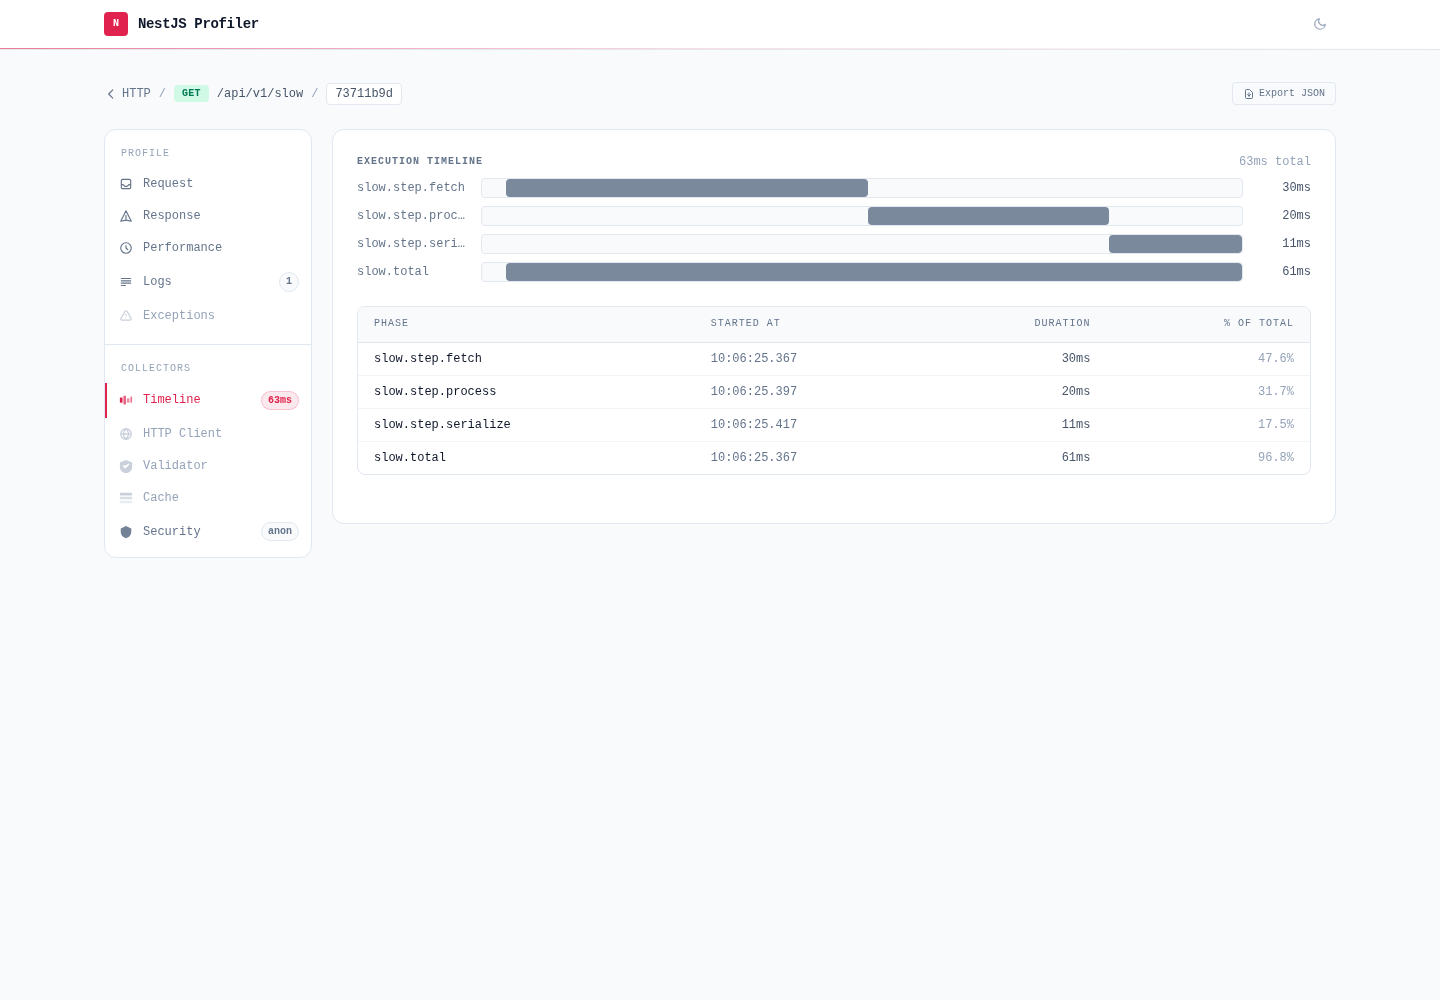
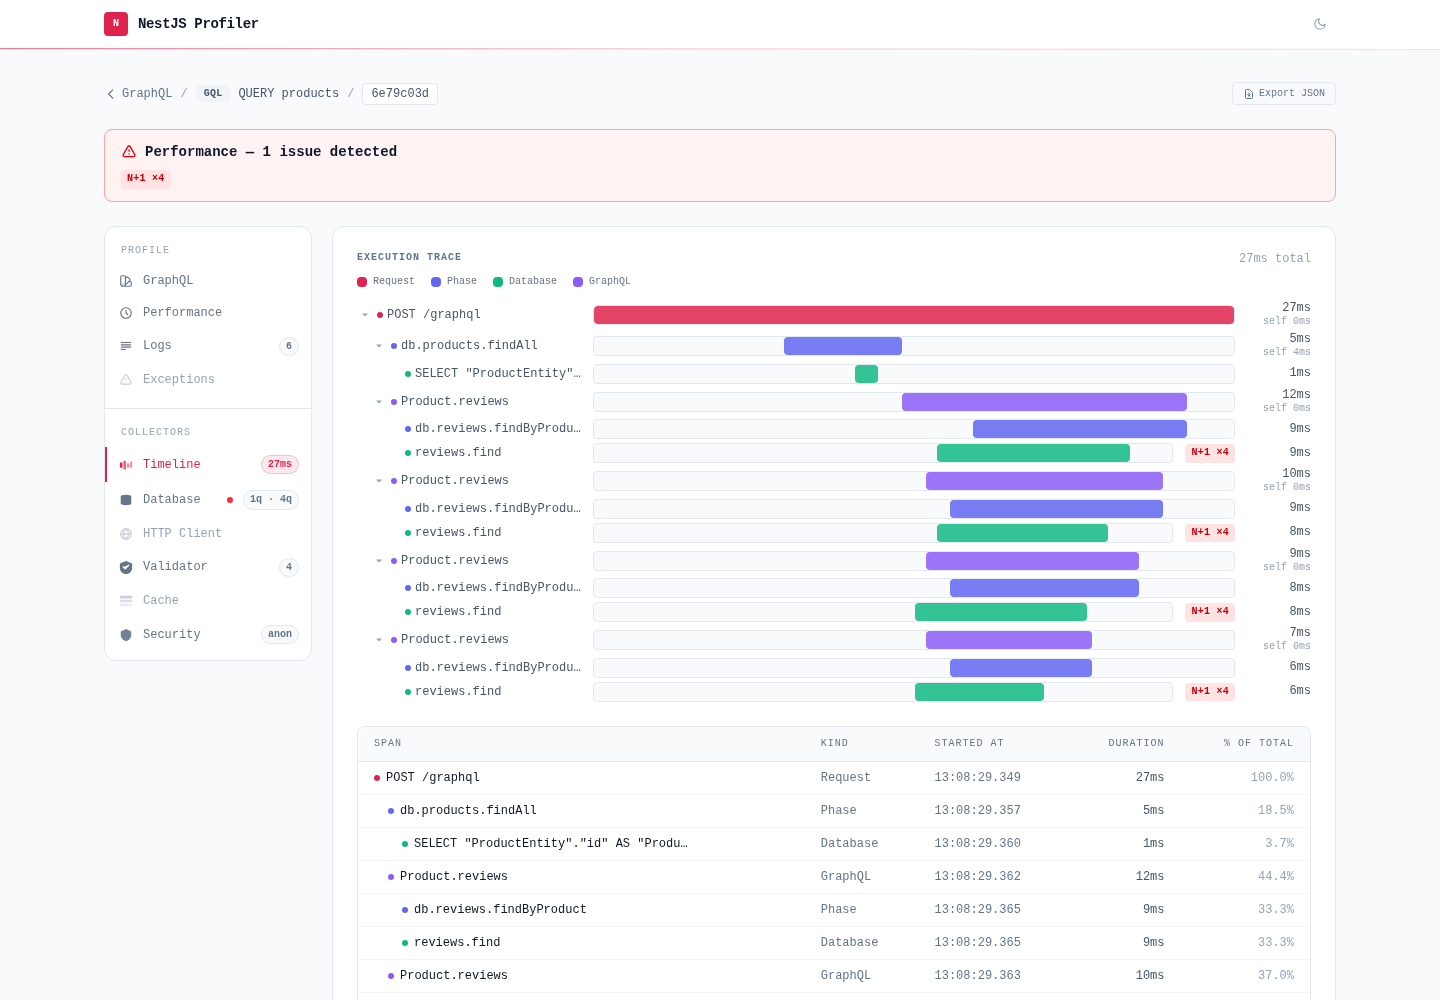
docs: document the trace waterfall, GraphQL field tracing and the lifecycle band
- rewrite the Timeline section as the unified nested trace waterfall (self-time, tags, deep-links)
- explain containers versus leaves, and why the `% of total` column does not sum to 100%
- document the sub-millisecond clock and the unit-following duration format
- refresh the Timeline screenshot as a GraphQL N+1 waterfall + a DataLoader-batched counterpart
- teach the screenshots script to shoot both traces (N+1 and DataLoader-batched)
- describe the flat Request Lifecycle band and the lifecycleSpans option
- add createProfilerFieldMiddleware + FieldTracingOptions to the GraphQL guide and API reference
- note the field middleware must be registered conditionally for zero cost when the profiler is off
- update the setup/harden/collector skills for GraphQL field tracing and the lifecycleSpans option
- add TraceSpan and LifecyclePhase to the core API reference

diff --git a/scripts/generate-profiler-screenshots.ts b/scripts/generate-profiler-screenshots.ts
@@ -169,7 +169,19 @@ const TARGETS: Target[] = [
       httpGet(api('/articles')),
     ],
   },
-  { file: 'timeline.png', tab: 'timeline', preds: [httpGet(api('/slow'))] },
+  {
+    // The `{ products { reviews } }` query is the richest trace: an SQL root resolver, a
+    // GraphQL field span per product and its MongoDB reviews query nested underneath — an
+    // N+1 the waterfall surfaces with per-field `N+1` tags. `timeline-dataloader.png` (its
+    // own FEATURE_DATALOADER pass below) shows the same query batched for contrast.
+    file: 'timeline.png',
+    tab: 'timeline',
+    preds: [
+      (p) => typeOf(p) === 'graphql' && gqlOpOf(p) === 'query' && hasTag(p, 'n-plus-one'),
+      (p) => typeOf(p) === 'graphql' && hasTag(p, 'n-plus-one'),
+      httpGet(api('/slow')),
+    ],
+  },
   {
     file: 'database.png',
     tab: 'database',
@@ -570,8 +582,50 @@ async function main(): Promise<void> {
       }
     }
 
+    // 10. DataLoader batching — the same `{ products { reviews } }` query as timeline.png,
+    //     but with FEATURE_DATALOADER on so the per-product reviews queries collapse into a
+    //     single batched load. Boot with the flag on, run the query, wait for its graphql
+    //     profile and shoot the Timeline tab as `timeline-dataloader.png` — the optimized
+    //     counterpart of the N+1 waterfall, with no N+1 tag and one reviews query.
+    if (!skip('SKIP_APP') && wanted('timeline-dataloader.png')) {
+      console.log('  • timeline-dataloader.png (FEATURE_DATALOADER pass)');
+      stopApp(app);
+      app = undefined;
+      const dlDir = mkdtempSync(join(tmpdir(), 'profiler-dataloader-'));
+      try {
+        app = await bootApp(logFile, dlDir, {
+          SQL_ORM: process.env.SQL_ORM ?? 'typeorm',
+          FEATURE_MONGOOSE: 'true',
+          FEATURE_GRAPHQL: 'true',
+          FEATURE_DATALOADER: 'true',
+          FEATURE_PINO_LOGGER: 'false',
+        });
+        await fetch(`${API_URL}/graphql`, {
+          method: 'POST',
+          headers: { 'content-type': 'application/json' },
+          body: JSON.stringify({
+            query:
+              'query Products { products { id name price reviews { id author rating createdAt } } }',
+          }),
+        });
+        const batched = await waitForProfileIn(
+          dlDir,
+          (p) => typeOf(p) === 'graphql' && gqlOpOf(p) === 'query',
+        );
+        capture('timeline-dataloader.png', `${PROFILER_URL}/${batched.token}?tab=timeline`);
+      } catch (error) {
+        console.warn(
+          `  ⚠ SKIPPED DataLoader shot (${error instanceof Error ? error.message : String(error)})`,
+        );
+      } finally {
+        stopApp(app);
+        app = undefined;
+        rmSync(dlDir, { recursive: true, force: true });
+      }
+    }
+
     console.log(
-      `▶ Done. ${resolved}/${TARGETS.length} detail targets + list/section/config + MikroORM/RabbitMQ passes → ${OUT_DIR}`,
+      `▶ Done. ${resolved}/${TARGETS.length} detail targets + list/section/config + MikroORM/RabbitMQ/DataLoader passes → ${OUT_DIR}`,
     );
   } finally {
     if (app?.exitCode === null) {

diff --git a/packages/nest-profiler-graphql/README.md b/packages/nest-profiler-graphql/README.md
@@ -130,6 +130,40 @@ Each profiled GraphQL request shows a **GQL** badge in `/_profiler` and records:
 
 Registering this module installs the `graphql` entrypoint type: GraphQL operations get their own **GraphQL** view on `/_profiler`, with a filter bar including an **Operation** filter (query / mutation / subscription).
 
+## Field-level tracing (resolveField)
+
+To time each `@ResolveField` and see the DB/HTTP calls it triggers nested under it in the profiler's **Timeline** waterfall, add the field middleware to your schema. It is **code-first only** (`buildSchemaOptions.fieldMiddleware`), and wired with no dependency injection:
+
+```ts
+import { createProfilerFieldMiddleware } from '@eleven-labs/nest-profiler-graphql';
+
+GraphQLModule.forRoot<ApolloDriverConfig>({
+  driver: ApolloDriver,
+  autoSchemaFile: true,
+  context: ({ req }) => ({ req }),
+  buildSchemaOptions: { fieldMiddleware: [createProfilerFieldMiddleware()] },
+});
+```
+
+Each traced field opens a nested CLS scope, so a query issued while it resolves is stamped as its child — an N+1 then reads as one field with its repeated child queries. It is a passthrough when the profiler is off. By default only fields returning a composite type (object/interface/union) or resolved on a root operation type are traced (that is where fan-out lives); widen or narrow it:
+
+```ts
+createProfilerFieldMiddleware(undefined, {
+  traceFields: 'all', // 'object' (default) | 'all' | (info) => boolean
+  minFieldMs: 1, // drop field spans shorter than this (ms)
+});
+```
+
+> **Running nothing when the profiler is off.** Once it sits in `buildSchemaOptions.fieldMiddleware`, graphql-js invokes the middleware for every resolved field, so the profiler-off passthrough is still one function call per field. To execute nothing at all on the GraphQL side when the profiler is disabled, register it only when your profiler-enabled flag is on:
+>
+> ```ts
+> buildSchemaOptions: {
+>   fieldMiddleware: profilerEnabled ? [createProfilerFieldMiddleware()] : [],
+> },
+> ```
+>
+> `buildSchemaOptions` is read while the schema is built — before a `.env` file is necessarily loaded — so when the flag comes from one, resolve it inside `GraphQLModule.forRootAsync` (injecting `ConfigService`) rather than reading `process.env` synchronously here.
+
 GraphQL-level errors (schema validation failures, resolver errors) appear in the **Exceptions** tab with an amber `GraphQLError` badge, distinct from NestJS runtime exceptions. Since GraphQL names every error `GraphQLError`, its `extensions.code` is shown alongside — that code is what the **Exception** filter lists and what decides whether the operation counts as an error.
 
 ![Exceptions tab showing an amber GraphQLError badge with its BAD_REQUEST code, validation message and location](https://raw.githubusercontent.com/eleven-labs/nest-profiler/main/docs/public/screenshots/profiler/graphql-error.png)

diff --git a/skills/harden-for-production/SKILL.md b/skills/harden-for-production/SKILL.md
@@ -23,7 +23,7 @@ Apply each, driven from `ConfigService`/env where the app already does so:
    - **`authorize` predicate** — `(ctx) => boolean | Promise<boolean>` over `ctx.request` / `ctx.response`. For HTTP Basic, set `ctx.response.setHeader('WWW-Authenticate', 'Basic realm="Profiler"')` before returning `false` so the browser prompts; the browser then re-sends the credential on every link.
    - **Bearer / `?token=`** — check the header or query in `authorize`, and add `security.linkQuery` to thread `?token=` across UI links (a bare Bearer header can't ride a browser link click). Compare secrets with `timingSafeEqual`.
    - Several strategies ⇒ **all must pass**. Never commit the credential — read it from the deploy environment via your own `security` code (the profiler defines no auth env var).
-2. **Keep gating explicit.** Confirm the enable predicate is off-by-default (`enabled('PROFILER_ENABLED')`, unset ⇒ off) so a forgotten variable means off. Prefer Approach A (`ConditionalModule`) so the profiler module never even loads when off.
+2. **Keep gating explicit.** Confirm the enable predicate is off-by-default (`enabled('PROFILER_ENABLED')`, unset ⇒ off) so a forgotten variable means off. Prefer Approach A (`ConditionalModule`) so the profiler module never even loads when off. If the app wires the GraphQL field middleware (`createProfilerFieldMiddleware`), gate it too — it lives in the GraphQL schema, not the profiler module, so `ConditionalModule` can't strip it: register it as `fieldMiddleware: isProfilerEnabled ? [createProfilerFieldMiddleware()] : []` so graphql-js runs nothing per field when off.
 3. **Don't capture bodies.** `collectBody: false` (the default). If some bodies are needed, cap with a small `maxBodySize` and rely on masking.
 4. **Mask sensitive data.** Add `maskHeaders` / `maskCookies` on the core, and the per-collector masks: `maskKeys` (config), `maskUserFields` (auth), `maskHeaders` (http, rabbitmq). Verify auth/JWT fields and DB credentials are covered.
 5. **Sample and cap retention.** Lower `sampleRate` (e.g. `0.05`) to profile a fraction of traffic; keep `maxProfiles` and `ttl` small so stored data stays bounded.

diff --git a/skills/add-nest-profiler-collector/references/collectors-simple.md b/skills/add-nest-profiler-collector/references/collectors-simple.md
@@ -28,6 +28,7 @@ ConditionalModule.registerWhen(CacheCollectorModule.forRoot(), isProfilerEnabled
   - Mercurius: `context: ({ request }) => ({ request })`
   - graphql-yoga: `context: ({ req }) => ({ req })`
 - Also exports `ignoreGraphQLPlayground` / `ignoreGraphQLIntrospection` to compose with the core `ignoreRequest` via `combineFilters(...)`, so playground/introspection noise is skipped.
+- **Field-level tracing (optional, code-first):** add `createProfilerFieldMiddleware()` to `buildSchemaOptions.fieldMiddleware` to time each `resolveField` and nest its DB/HTTP calls under it in the **Timeline** waterfall — an N+1 then reads as one field with its repeated child queries. graphql-js invokes every registered field middleware per field, so register it conditionally — `fieldMiddleware: isProfilerEnabled ? [createProfilerFieldMiddleware()] : []` (resolve the flag in `forRootAsync` when it comes from `.env`) — to run nothing on the GraphQL side when the profiler is off.
 - Docs: <https://nest-profiler.eleven-labs.com/docs/packages/nest-profiler-graphql> · tutorial: <https://nest-profiler.eleven-labs.com/docs/tutorials/graphql-collector>
 
 ```ts

diff --git a/skills/setup-nest-profiler/references/collectors-simple.md b/skills/setup-nest-profiler/references/collectors-simple.md
@@ -28,6 +28,7 @@ ConditionalModule.registerWhen(CacheCollectorModule.forRoot(), isProfilerEnabled
   - Mercurius: `context: ({ request }) => ({ request })`
   - graphql-yoga: `context: ({ req }) => ({ req })`
 - Also exports `ignoreGraphQLPlayground` / `ignoreGraphQLIntrospection` to compose with the core `ignoreRequest` via `combineFilters(...)`, so playground/introspection noise is skipped.
+- **Field-level tracing (optional, code-first):** add `createProfilerFieldMiddleware()` to `buildSchemaOptions.fieldMiddleware` to time each `resolveField` and nest its DB/HTTP calls under it in the **Timeline** waterfall — an N+1 then reads as one field with its repeated child queries. graphql-js invokes every registered field middleware per field, so register it conditionally — `fieldMiddleware: isProfilerEnabled ? [createProfilerFieldMiddleware()] : []` (resolve the flag in `forRootAsync` when it comes from `.env`) — to run nothing on the GraphQL side when the profiler is off.
 - Docs: <https://nest-profiler.eleven-labs.com/docs/packages/nest-profiler-graphql> · tutorial: <https://nest-profiler.eleven-labs.com/docs/tutorials/graphql-collector>
 
 ```ts

diff --git a/skills/setup-nest-profiler/references/core-options.md b/skills/setup-nest-profiler/references/core-options.md
@@ -16,6 +16,7 @@ Docs: <https://nest-profiler.eleven-labs.com/docs/packages/nest-profiler/configu
 | `storage`          | `IProfilerStorageAdapter` | —           | Custom adapter (SQLite, Redis, DB…); takes precedence over `storageType`. See the storage section.                                                                                                                                                                                                                                                         |
 | `collectBody`      | `boolean`                 | `false`     | Capture request/response bodies. Sensitive — leave off unless you accept the exposure (see production section).                                                                                                                                                                                                                                            |
 | `collectorTimeout` | `number`                  | `1000`      | Max ms a collector may run before being abandoned. `0`/negative disables the timeout.                                                                                                                                                                                                                                                                      |
+| `lifecycleSpans`   | `boolean`                 | `true`      | Assemble the flat request-lifecycle band (`guards`, `validation`, `controller`) shown above the Timeline waterfall. `validation` is filled by `@eleven-labs/nest-profiler-validator` when installed. Set `false` to skip the band entirely.                                                                                                                |
 | `sampleRate`       | `number`                  | `1.0`       | Fraction of requests profiled (0.0–1.0).                                                                                                                                                                                                                                                                                                                   |
 | `maskCookies`      | `string[]`                | —           | Cookie names whose value is replaced with `'***'`.                                                                                                                                                                                                                                                                                                         |
 | `maskHeaders`      | `string[]`                | see notes   | Request headers (case-insensitive) replaced with `[REDACTED]`. Merged with the built-ins: `authorization`, `cookie`, `set-cookie`, `x-api-key`, `x-auth-token`, `proxy-authorization`.                                                                                                                                                                     |